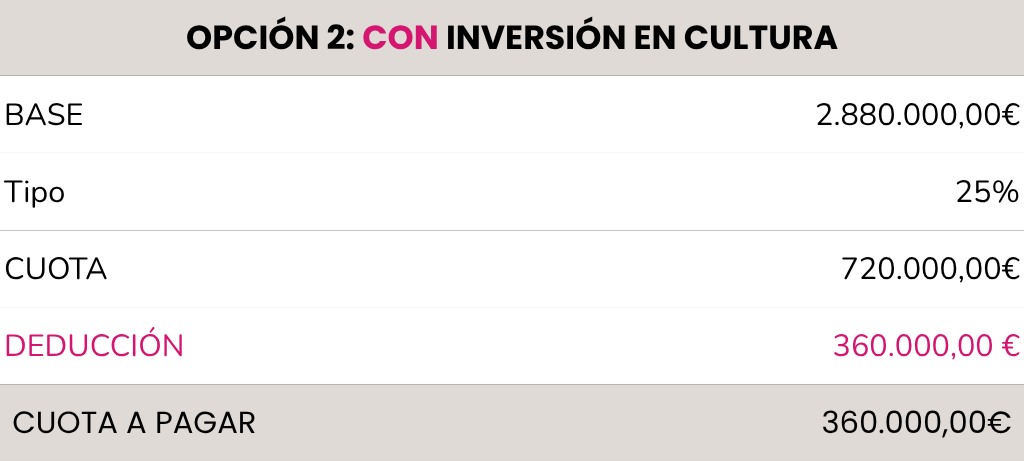
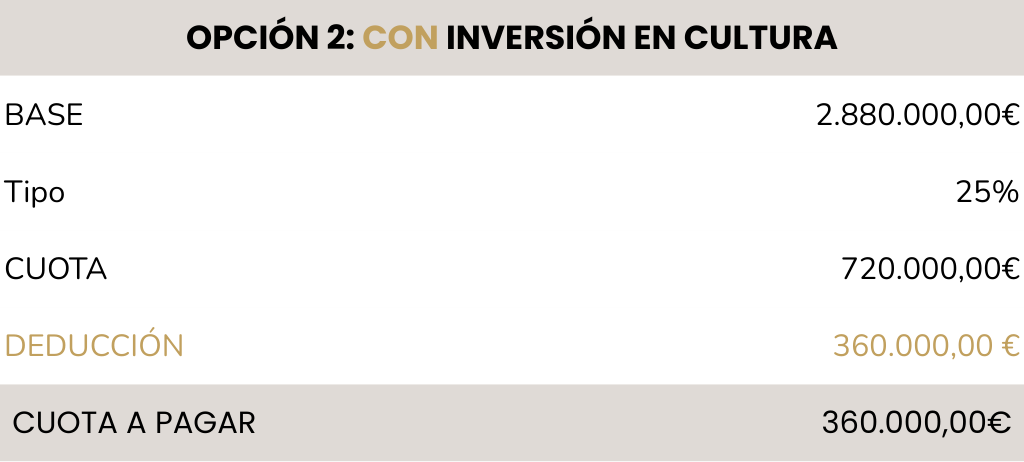
cambio color

diff --git a/src/styles/abstracts/_variables.scss b/src/styles/abstracts/_variables.scss
@@ -13,7 +13,7 @@ $fontfamily: 'Poppins', sans-serif;
 
 // Colors
 $color-azul: #5871F8;
-$color-rosa: #D31671;
+$color-rosa: #C1A05E;
 $color-gris-claro: #DFDAD6;
 $color-gris-oscuro: #BDB6AB;
 
